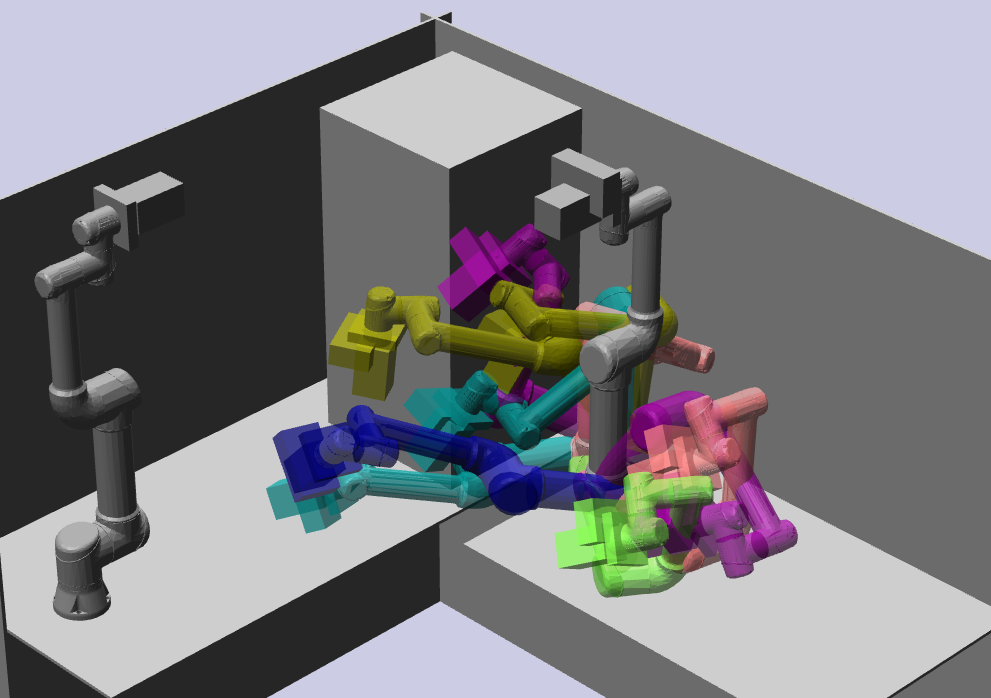
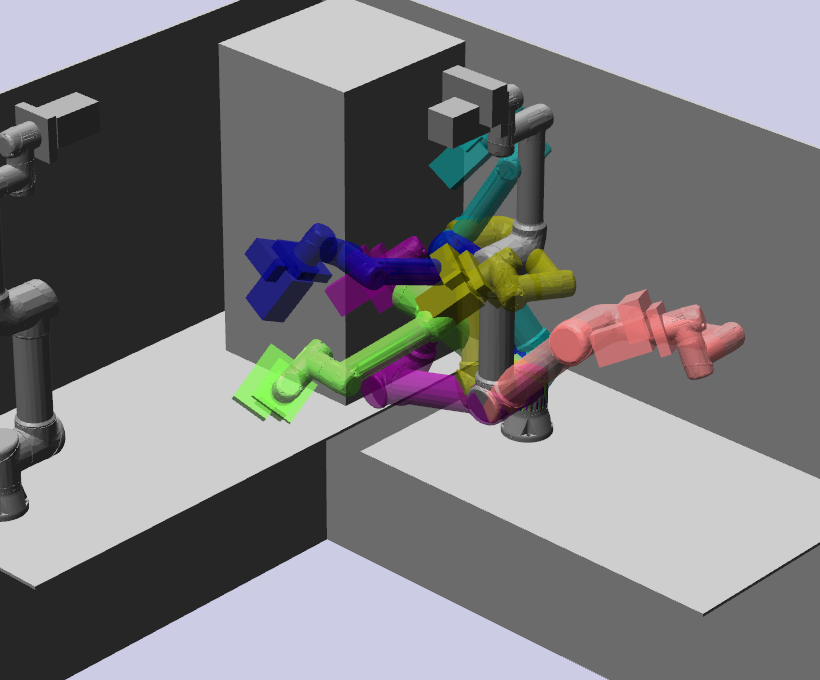
more diverse help configs but only 6 this time

diff --git a/experiments_lab/configurations/generate_help_config_samples.py b/experiments_lab/configurations/generate_help_config_samples.py
@@ -2,7 +2,8 @@ import time
 import typer
 import numpy as np
 from lab_ur_stack.manipulation.utils import to_canonical_config
-from lab_ur_stack.vision.utils import lookat_verangle_horangle_distance_to_robot_config
+from lab_ur_stack.vision.utils import lookat_verangle_horangle_distance_to_robot_config, \
+    detections_plots_with_depth_as_image
 from lab_ur_stack.utils.workspace_utils import (workspace_x_lims_default,
                                                 workspace_y_lims_default, goal_tower_position)
 from lab_ur_stack.motion_planning.geometry_and_transforms import GeometryAndTransforms
@@ -61,18 +62,19 @@ app = typer.Typer()
 
 @app.command(
     context_settings={"ignore_unknown_options": True})
-def generate_configs(n_samples: int = 100,
+def generate_configs(n_samples: int = 50,
                      save_to_file_name="help_configs.npy",
                      lookat_max_offset: float = 0.4,
                      verangle_min: int = 20,
                      verangle_max: int = 90,
-                     horangle_min: int = -10,
-                     horangle_max: int = 60,
-                     distance_min: float = 0.4,
-                     distance_max: float = 1.5):
+                     horangle_min: int = -20,
+                     horangle_max: int = 90,
+                     distance_min: float = 0.35,
+                     distance_max: float = 2.):
     gt = GeometryAndTransforms.build()
 
     help_configs = []
+    poses = []
     while len(help_configs) < n_samples:
         help_config = sample_help_config(gt=gt,
                                          lookat_max_offset=lookat_max_offset,
@@ -82,16 +84,27 @@ def generate_configs(n_samples: int = 100,
                                          horangle_max=horangle_max,
                                          distance_min=distance_min,
                                          distance_max=distance_max, )
+        help_config = to_canonical_config(help_config)
+        pose = gt.robot_ee_to_world_transform("ur5e_1", help_config)
+        pose = gt.se3_to_4x4(pose).flatten()
 
         # if this config is too close to an existing one, skip it
         if len(help_configs) > 0:
-            min_dist = np.min(np.linalg.norm(np.array(help_configs) - np.array(help_config), axis=1))
-            print(f"min dist to existing configs: {min_dist}")
-            if min_dist < 0.75:
-                print(f"skipping, too close to existing config, min dist: {min_dist}")
+            # min_dist = np.min(np.linalg.norm(np.array(help_configs) - np.array(help_config), axis=1))
+            # print(f"min dist to existing configs: {min_dist}")
+            # if min_dist < 1.:
+            #     print(f"skipping, too close to existing config, min dist: {min_dist}")
+            #     continue
+
+            min_dist_pose = np.min(np.linalg.norm(np.array(poses) - np.array(pose), axis=1))
+            print(f"min dist to existing poses: {min_dist_pose}")
+            if min_dist_pose < .5:
+                print(f"skipping, too close to existing pose, min dist: {min_dist_pose}")
                 continue
 
         help_configs.append(help_config)
+        poses.append(pose)
+        print("saving...")
 
     help_configs = np.array(help_configs)
     np.save(save_to_file_name, help_configs)
@@ -115,6 +128,48 @@ def visualize_configs(file_name="help_configs.npy",
             color = colors[j%len(colors)]
             gt.motion_planner.vis_config("ur5e_1", config, str(j), color)
         time.sleep(time_per_batch)
+
+
+@app.command(
+    context_settings={"ignore_unknown_options": True})
+def detect_from_configs(file_name="help_configs.npy",):
+    from lab_ur_stack.camera.realsense_camera import RealsenseCamera
+    from lab_ur_stack.manipulation.manipulation_controller import ManipulationController
+    from lab_ur_stack.robot_inteface.robots_metadata import ur5e_1
+    from lab_ur_stack.vision.image_block_position_estimator import ImageBlockPositionEstimator
+    from matplotlib import pyplot as plt
+
+    import os, sys
+    ci_build_and_not_headless = False
+    try:
+        from cv2.version import ci_build, headless
+        ci_and_not_headless = ci_build and not headless
+    except:
+        pass
+    if sys.platform.startswith("linux") and ci_and_not_headless:
+        os.environ.pop("QT_QPA_PLATFORM_PLUGIN_PATH")
+    if sys.platform.startswith("linux") and ci_and_not_headless:
+        os.environ.pop("QT_QPA_FONTDIR")
+
+    help_configs = np.load(file_name)
+    gt = GeometryAndTransforms.build()
+    gt.motion_planner.visualize()
+
+    camera = RealsenseCamera()
+    r1_controller = ManipulationController.build_from_robot_name_and_ip(ur5e_1["ip"], ur5e_1["name"])
+    position_estimator = ImageBlockPositionEstimator(workspace_x_lims_default, workspace_y_lims_default, gt)
+
+    for config in help_configs:
+        r1_controller.moveJ(config)
+
+        time.sleep(0.2)
+        actual_config = r1_controller.getActualQ()
+        rgb, depth = camera.get_frame_rgb()
+        positions, annotations = position_estimator.get_block_positions_depth(rgb, depth, actual_config)
+        plot_im = detections_plots_with_depth_as_image(annotations[0], annotations[1], annotations[2], positions,
+                                                       workspace_x_lims_default, workspace_y_lims_default,)
+        plt.imshow(plot_im)
+        plt.show()
 
 
 if __name__ == '__main__':

diff --git a/experiments_lab/configurations/generate_experiments_list.py b/experiments_lab/configurations/generate_experiments_list.py
@@ -3,7 +3,6 @@ import pandas as pd
 import numpy as np
 import os
 from datetime import datetime
-
 from lab_ur_stack.utils.workspace_utils import workspace_x_lims_default, workspace_y_lims_default, \
     sample_block_positions_from_dists
 from modeling.belief.block_position_belief import BlocksPositionsBelief, BlockPosDist
@@ -46,11 +45,11 @@ def generate_experiments(
     ws_x_lims = workspace_x_lims_default
     ws_y_lims = workspace_y_lims_default
 
-    # Load help configs
-    all_help_configs = load_help_configs()
-
-    # Sample helper configurations once
-    help_configs = all_help_configs[np.random.choice(len(all_help_configs), n_helper_configs, replace=False)]
+    # # Load help configs
+    # all_help_configs = load_help_configs()
+    # # Sample helper configurations once
+    # help_configs = all_help_configs[np.random.choice(len(all_help_configs), n_helper_configs, replace=False)]
+    help_configs = np.load("experiments_4_blocks_help_configs.npy")
 
     # Create empty list to store experiment data
     experiments = []

diff --git a/experiments_lab/experiment_manager.py b/experiments_lab/experiment_manager.py
@@ -176,6 +176,7 @@ class ExperimentManager:
         self.clear_robot2()
 
         self.env.r1_controller.plan_and_moveJ(help_config)
+        time.sleep(0.2)
         im, depth = self.env.camera.get_frame_rgb()
         positions, annotations = self.env.position_estimator.get_block_positions_depth(im, depth, help_config,
                                                                                        max_detections=self.env.n_blocks)
@@ -409,9 +410,9 @@ class ExperimentManager:
 
         for bpos in block_positions:
             pile_pos, h = self.piles_manager.pop_next_block()
-            start_height = 0.1 + 0.04 * h
+            start_height = 0.06 + 0.04 * h
             self.env.r2_controller.pick_up(pile_pos[0], pile_pos[1], np.pi/2, start_height)
-            self.env.r2_controller.put_down(bpos[0], bpos[1], 0, 0.12)
+            self.env.r2_controller.put_down(bpos[0], bpos[1], 0, 0.1)
 
         self.clear_robot2()
 

diff --git a/experiments_lab/run_experiments_from_list.py b/experiments_lab/run_experiments_from_list.py
@@ -26,7 +26,7 @@ app = typer.Typer()
 def run_experiments(
         n_blocks: int = 4,
         max_steps: int = 20,
-        max_planning_depth: int = typer.Option(4, help="Max planning depth for the planner,"
+        max_planning_depth: int = typer.Option(5, help="Max planning depth for the planner,"
                                                        "consult before changing it, deepening may cause"
                                                        "distribution shift because rollout policy always tries to pick up"),
         planner_n_iterations: int = 2000
